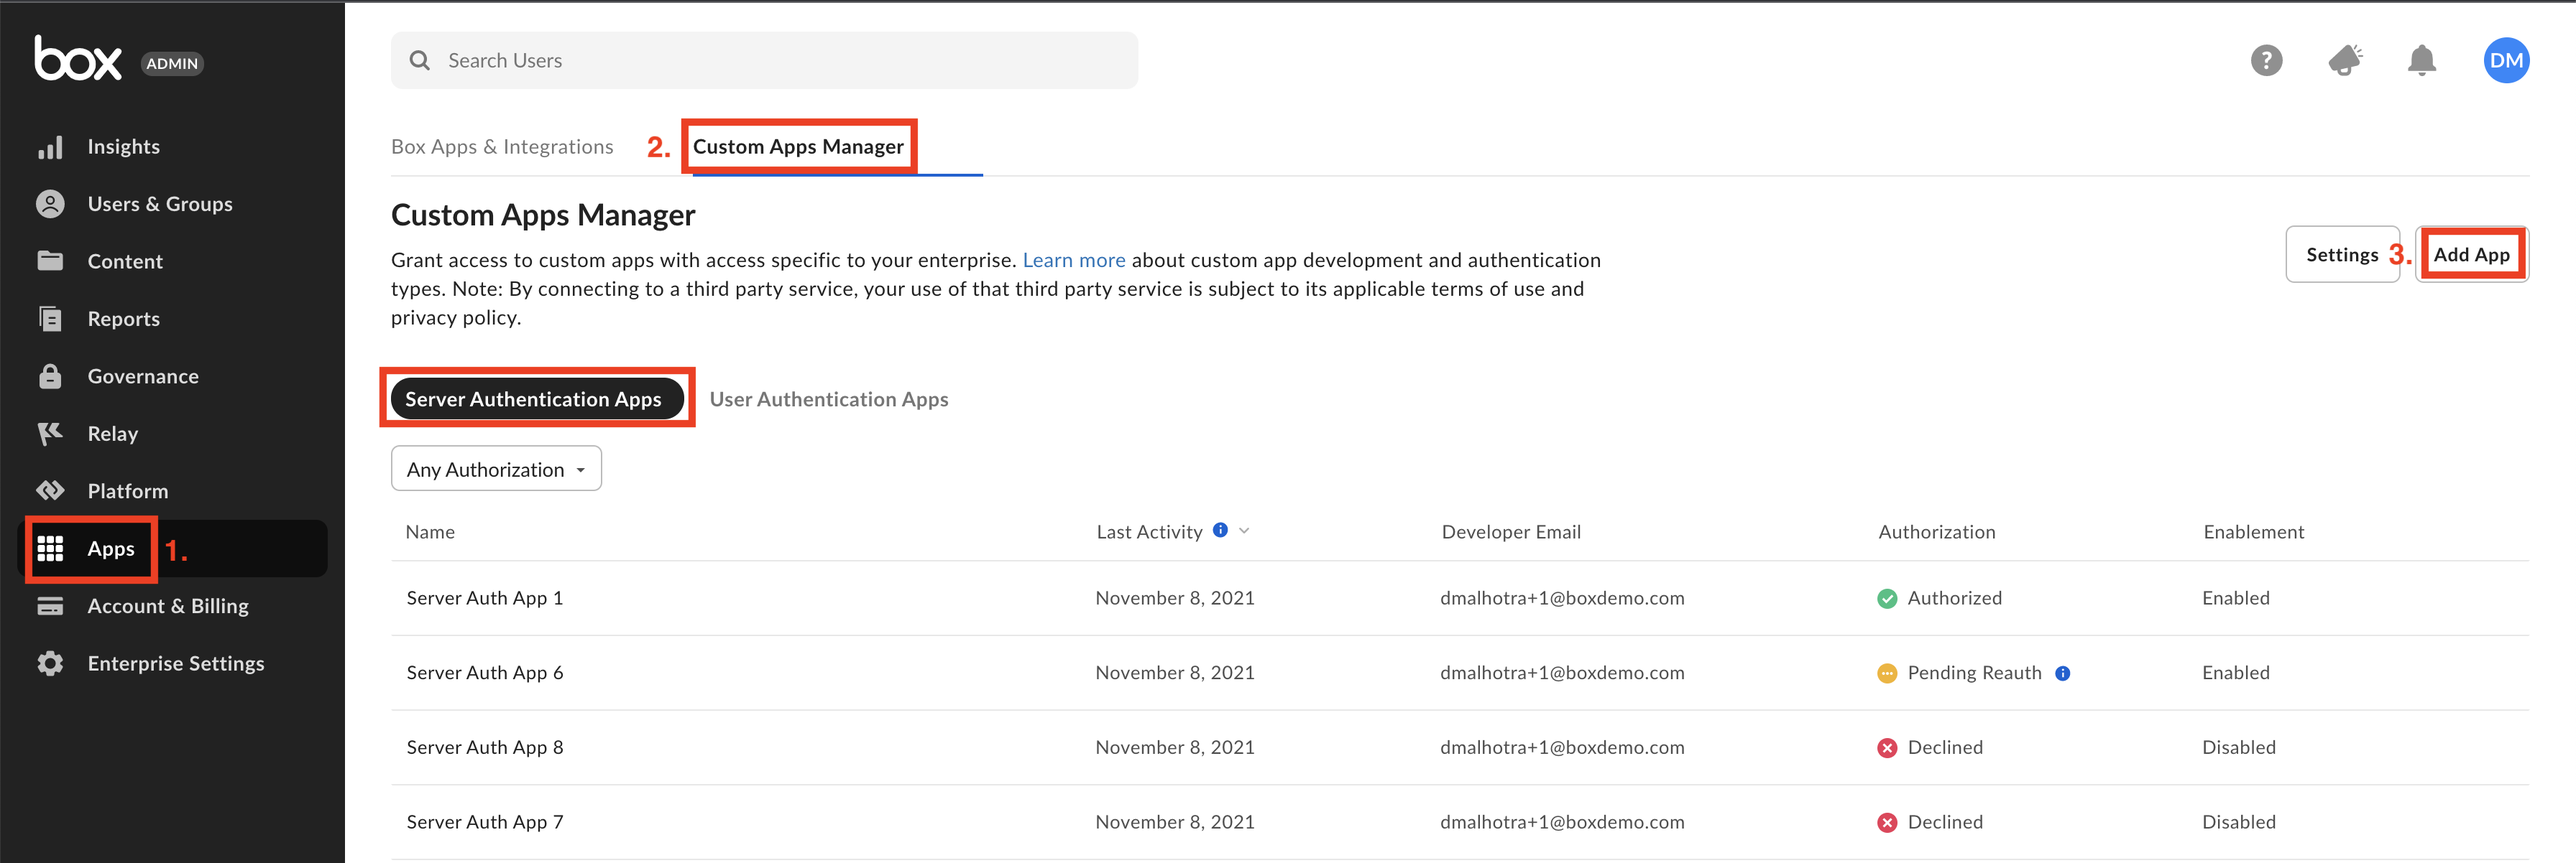
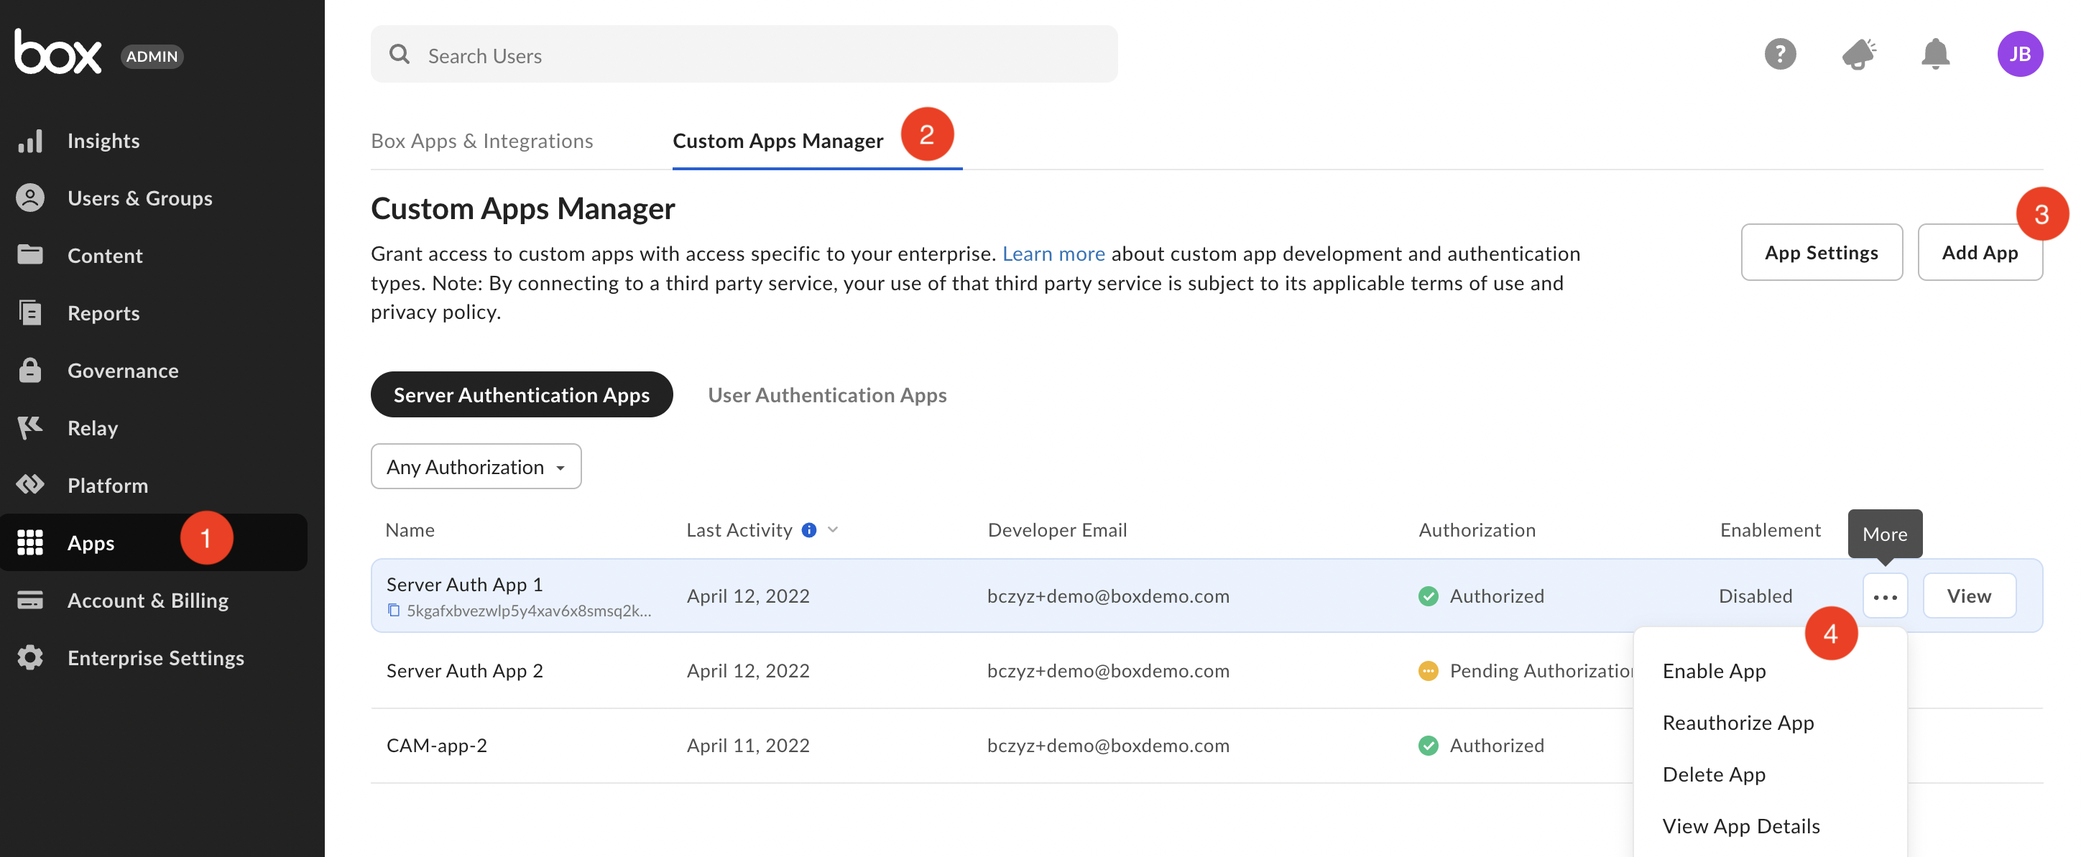
DDOC-548:Update Custom Apps docu

diff --git a/content/guides/authorization/custom-app-approval.md b/content/guides/authorization/custom-app-approval.md
@@ -26,18 +26,29 @@ enable it in the Admin Console.
 ## Approval Notifications
 
 A semi-automated process to submit an app approval is available in the Developer
-Console for JWT, Client Credentials Grant, and Limited Access applications.
+Console for all custom application types.
+
+### Server authentication apps
 
 Navigate to the **Authorization** tab for your application in the
 [Developer Console][devconsole].
 
-<ImageFrame border width="400" center>
-  ![Add and Manage keys](images/app_authorization.png)
+<ImageFrame border center>
+  ![Authorization tab](images/app_authorization.png)
+</ImageFrame>
+
+### User authentication apps
+
+Navigate to the **Enablement** tab for your application in the [Developer Console][devconsole].
+
+<ImageFrame border center>
+  ![Enablement tab](images/app_enablement.png)
 </ImageFrame>
 
 Submitting the application for approval will send an email to your
 enterprise's Primary Admin to approve the application. More information on this
 process is available in our [support article on app authorization][app-auth].
+
 
 ## Manual Approval
 
@@ -46,9 +57,10 @@ application.
 
 ### As a developer
 
-As the developer, navigate to the **Configuration** tab for your application
-in the [Developer Console][devconsole]. Scroll down to the OAuth 2.0 Credentials
-section and copy the Client ID value to provide to a Box Admin.
+1. Navigate to the **Configuration** tab for your application
+in the [Developer Console][devconsole]. 
+2. Scroll down to the OAuth 2.0 Credentials
+section and copy the **Client ID** value to provide to a Box Admin.
 
 <Message>
   # Finding a Box Admin
@@ -60,14 +72,13 @@ section and copy the Client ID value to provide to a Box Admin.
 
 ### As an Admin
 
-As a Box Admin, navigate to the [Admin Console][adminconsole] and
-select the **Apps** tab (1) from the left navigation panel. Then, click the
+1. Navigate to the [Admin Console][adminconsole] and
+select the **Apps** tab (1) from the left navigation panel. 
+2. Click the
 **Custom Apps Manager** tab (2) at the top of your screen. 
-
-On both Server and User Authentication Apps screens, you
-will see an **Add App** button in the top right corner to add a new app.
-
-For Server Authentication Apps, you can also use the Custom Apps Manager table
+3. For both Server and User Authentication Apps screens, click
+the **Add App** (3) button in the top right corner to add a new app.
+4. Alternatively, you can use the Custom Apps Manager table menu (4)
 to authorize and enable apps.
 
 #### Server Authentication Apps

diff --git a/content/guides/authentication/oauth2/oauth2-setup.md b/content/guides/authentication/oauth2/oauth2-setup.md
@@ -48,7 +48,7 @@ prompt a selection for the next step.
 Select **User Authentication (OAuth 2.0)** and provide a unique name for your 
 application. Click **Create App**.
 
-<ImageFrame border width="400" center>
+<ImageFrame border center>
   ![Auth selection screen](../images/custom-app-selection.png)
 </ImageFrame>
 

diff --git a/content/guides/authentication/jwt/jwt-setup.md b/content/guides/authentication/jwt/jwt-setup.md
@@ -137,7 +137,7 @@ application within the Box Admin Console.
 Navigate to the **Authorization** tab for your application within the
 [Developer Console][devconsole].
 
-<ImageFrame border width="400" center>
+<ImageFrame border center>
   ![App authorization](../images/app-authorization.png)
 </ImageFrame>
 
